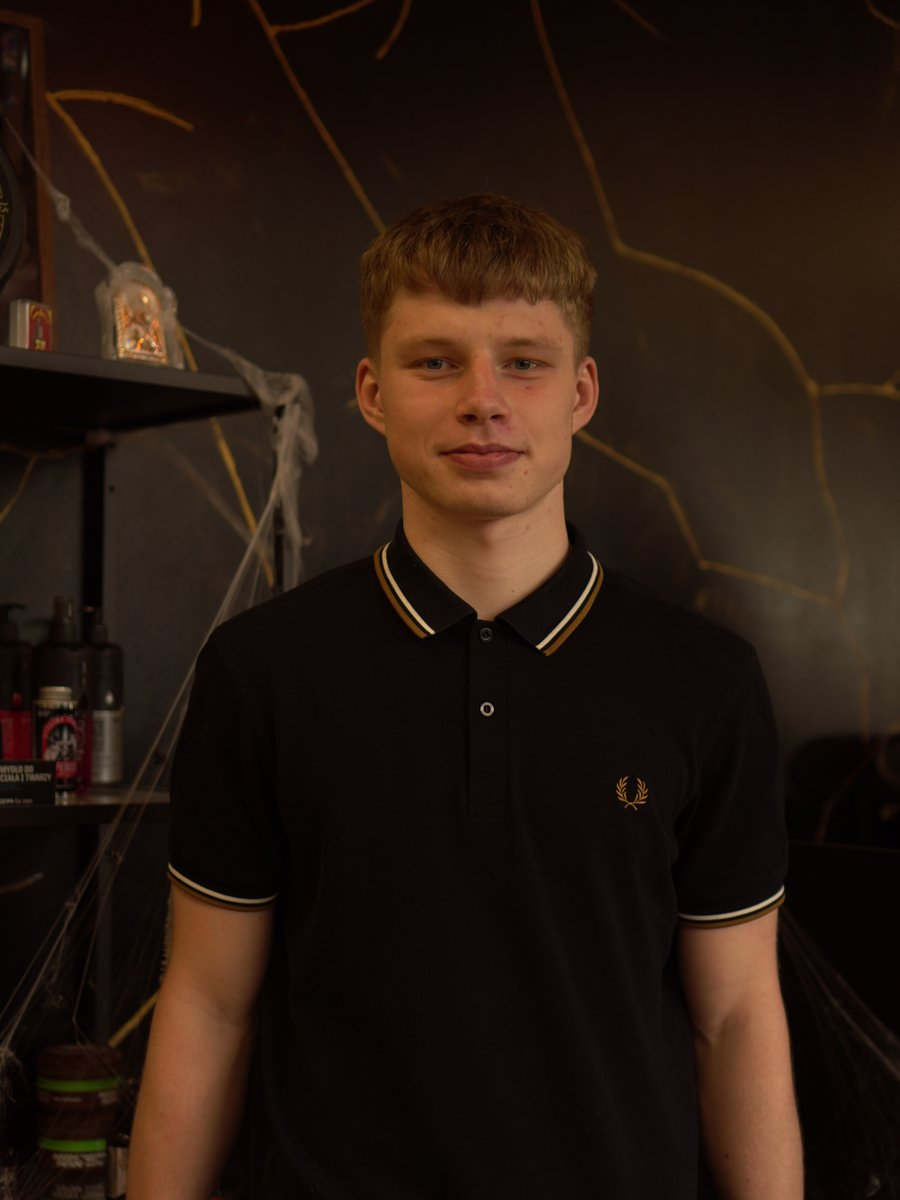
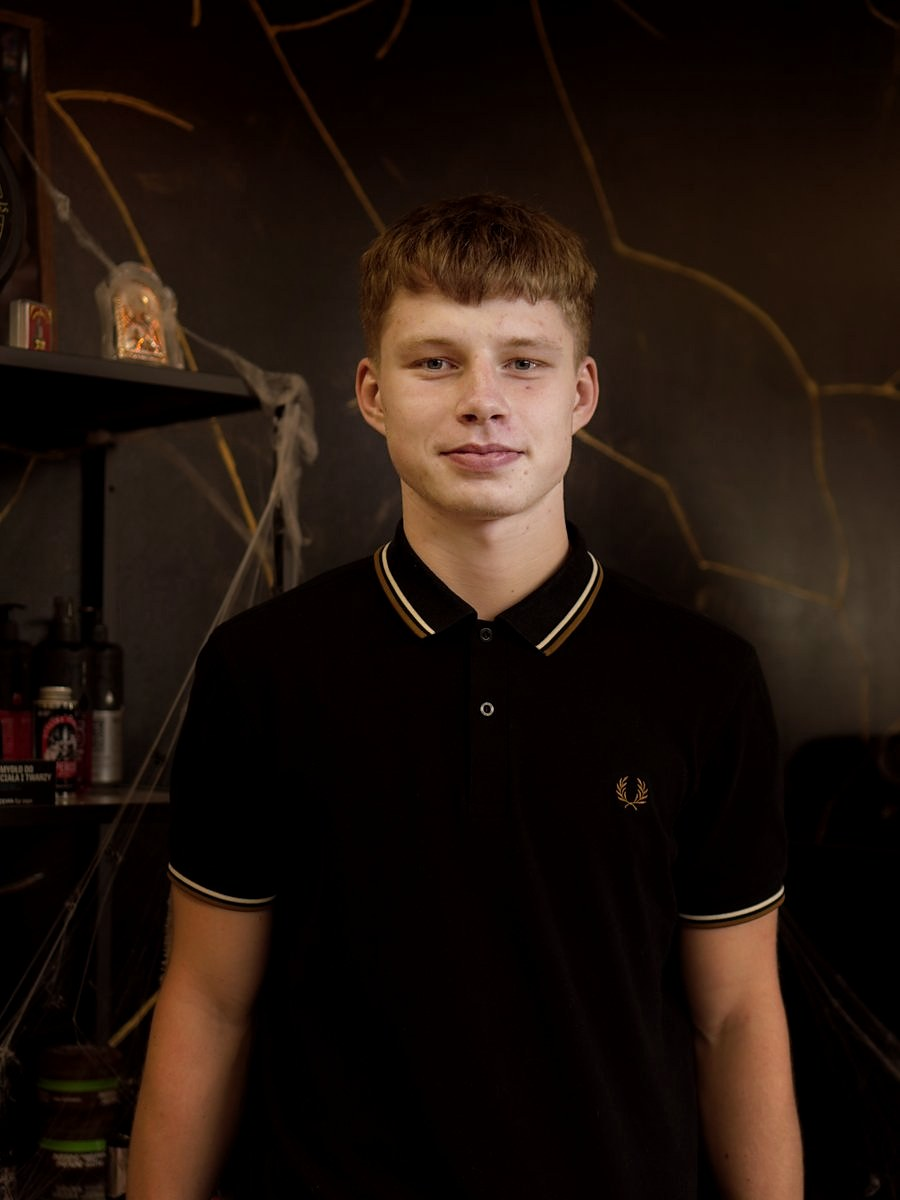
Add Michał to the team and match team photo tones

Changed region(s): [[0.4044, 0.2158, 0.6844, 0.4933]]

diff --git a/index.html b/index.html
@@ -259,7 +259,7 @@
 
   /* MASTERS */
   .masters-grid{
-    display:grid;grid-template-columns:repeat(3,1fr);gap:1px;
+    display:grid;grid-template-columns:repeat(4,1fr);gap:1px;
     background:var(--line);margin-top:44px;border:1px solid var(--line);
   }
   .master-card{
@@ -287,6 +287,7 @@
   .master-card:nth-child(3) .master-photo{border-color:var(--red);}
   .master-card h3{font-size:1.2rem;margin-bottom:6px;}
   .master-card .role{color:var(--grey);font-size:0.82rem;text-transform:uppercase;letter-spacing:0.08em;}
+  @media(max-width:1100px){.masters-grid{grid-template-columns:repeat(2,1fr);}}
   @media(max-width:760px){.masters-grid{grid-template-columns:1fr;}}
 
   /* SERVICES */
@@ -742,7 +743,7 @@
         </div>
       </div>
       <div class="master-card">
-        <img class="master-photo master-photo-vlad" src="assets/vladyslav-corrected.jpg" alt="Vladyslav — barber" loading="lazy">
+        <img class="master-photo master-photo-vlad" src="assets/vladyslav.jpeg" alt="Vladyslav — barber" loading="lazy">
         <div class="master-info">
           <h3>Vladyslav</h3>
           <div class="role" id="m2-price">Strzyżenie od 110 zł</div>
@@ -755,6 +756,14 @@
           <h3>Liliia</h3>
           <div class="role" id="m3-price">Strzyżenie od 110 zł</div>
           <a class="master-book" id="book-3" href="https://street-barbershop.booksy.com/h/" target="_blank" rel="noopener" data-track="booking_click" data-location="team_liliia">Umów wizytę</a>
+        </div>
+      </div>
+      <div class="master-card">
+        <img class="master-photo" src="assets/michal.jpeg" alt="Michał — barber" loading="lazy">
+        <div class="master-info">
+          <h3>Michał</h3>
+          <div class="role" id="m4-price">Strzyżenie od 110 zł</div>
+          <a class="master-book" id="book-4" href="https://street-barbershop.booksy.com/h/" target="_blank" rel="noopener" data-track="booking_click" data-location="team_michal">Umów wizytę</a>
         </div>
       </div>
     </div>
@@ -954,8 +963,8 @@ const translations = {
     'badge-1':'Відкриті 7 днів на тиждень','badge-2':'Подарункові картки Booksy','badge-3':'Виїзна послуга',
     'week-title':'Не треба чекати до понеділка','week-sub':'Ми відкриті 7 днів на тиждень — обирай час, коли зручно тобі.','week-cta':'Обрати час',
     'masters-eyebrow':'// команда',
-    'm1-price':'Стрижка від 110 zł','m2-price':'Стрижка від 110 zł','m3-price':'Стрижка від 110 zł',
-    'book-1':'Записатися','book-2':'Записатися','book-3':'Записатися',
+    'm1-price':'Стрижка від 110 zł','m2-price':'Стрижка від 110 zł','m3-price':'Стрижка від 110 zł','m4-price':'Стрижка від 110 zł',
+    'book-1':'Записатися','book-2':'Записатися','book-3':'Записатися','book-4':'Записатися',
     'services-eyebrow':'// прайс',
     'pop-1':'Стрижка','pop-1-price':'від 110 zł','pop-2':'Борода','pop-3':'Combo','pop-4':'Завивка','pop-4n':'консультація безкоштовна',
     'trwala-tag':'Завивка / trwała',
